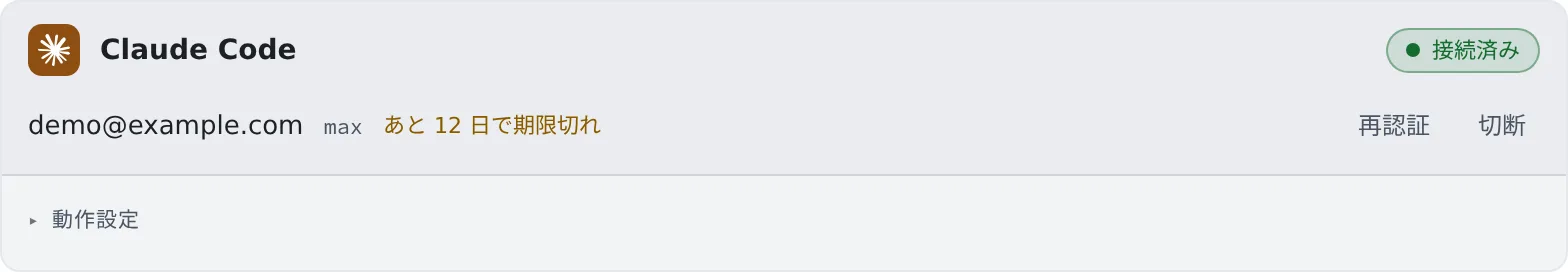
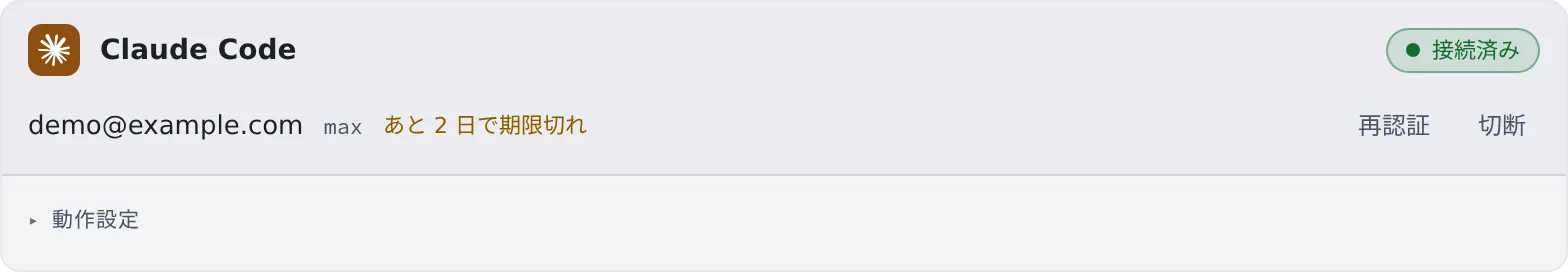
docs(guide): fix the review findings on the agent pages
- lcpp: the Chat pill reads Connected / Not reachable / Checking (the
  engine catalogue), not the card's Reachable label
- the Claude card shot showed an expiry 12 days out, which the Agent
  never sends (days_left only within 3 days); fixture now 2, retaken
- usage: a chip holding a Full reset also comes out of +N, and a
  folded chip keeps reading its usage (no refetch on open); the
  catalogue is fetched once a day with opencode's copy as fallback

Verified: docs-check 0 errors, pre-commit clean, en/ja counts equal,
both retaken shots looked at.

Changed region(s): [[0.2812, 0.4118, 0.375, 0.5]]

diff --git a/guide/user/agents/usage.md b/guide/user/agents/usage.md
@@ -36,7 +36,8 @@ Agents whose account allowance can be read get a **usage chip** on the WS bar. W
 [Agents reference](../../ref/agents.md).
 
 - Only the two most recently used stay on the bar. The rest fold into "**+N**" on the right; press it to open them
-- A chip nearing its cap (95% or more, say) comes out even if you have not used that agent lately
+- A folded chip keeps reading its usage, so opening "+N" costs no fresh fetch
+- A chip nearing its cap (95% or more, say) or holding a Full reset comes out even if you have not used that agent lately
 - On a phone they stack inside "⋯" and do not fold
 
 Choose how a chip is shown under "**On the WS bar**" in its dropdown.
@@ -80,7 +81,7 @@ The **API-equivalent cost (est.)** is a guide: tokens times each model's publish
 **It is not what a subscription bills you.** It shows what this use would have cost on the API.
 
 - Cache writes are priced at 1.25 times the rate, cache reads at 0.1 times
-- Rates for Anthropic models come from a built-in table, the rest from the models.dev catalog. Use through opencode is priced at opencode's rates
+- Rates for Anthropic models come from a built-in table, the rest from the models.dev catalog. The Agent fetches the catalog once a day; where it cannot, it reads the copy opencode keeps. Use through opencode is priced at opencode's rates
 - Hover an amount to see which rate was used and where it came from. For claude's auxiliary calls and opencode sessions, the amount the agent reported appears too (it is not added to the estimate)
 - Models missing from the catalog are not estimated. It says "N% of the consumption (… tokens) runs on models with no price on file", and that share is left out of the estimate
 - The catalog's date shows too. A newer catalog changes past estimates as well

diff --git a/guide/user/agents/lcpp.md b/guide/user/agents/lcpp.md
@@ -36,7 +36,7 @@ While it is set:
 
 - The launch dialog's model list is that server's
 - lcpp sessions connect straight to that server. They do not go through the Control Plane, so limits your tenant administrator set on engines do not apply
-- The "**Chat**" pill at the top of the screen reports that server too: its state (**Reachable** / **Not reachable** and so on) and the model it found ([Badges and menus](../../member/badges-and-menus.md#the-engine-pills-in-the-top-bar))
+- The "**Chat**" pill at the top of the screen reports that server too: its state (**Connected** / **Not reachable** / **Checking**) and the model it found ([Badges and menus](../../member/badges-and-menus.md#the-engine-pills-in-the-top-bar))
 
 Clear the field to go back to the deployment's engine.
 

diff --git a/guide/user/agents/claude.md b/guide/user/agents/claude.md
@@ -22,7 +22,7 @@ It runs in Terminal (CLI), and the session view mirrors the conversation.
 
 Work on the **Claude Code** card in **⚙Settings → Agents**.
 
-![The Claude Code card in Settings > Agents: connected, with the account's email, the plan, "Expires in 12 day(s)", and the Re-authenticate and Disconnect buttons](../../assets/agents-claude-en-light.webp)
+![The Claude Code card in Settings > Agents: connected, with the account's email, the plan, "Expires in 2 day(s)", and the Re-authenticate and Disconnect buttons](../../assets/agents-claude-en-light.webp)
 
 1. Press "**Connect via OAuth**". The sign-in page opens in a new tab; if it does not, open it from "**the sign-in link ↗**"
 2. Approve in your own browser
